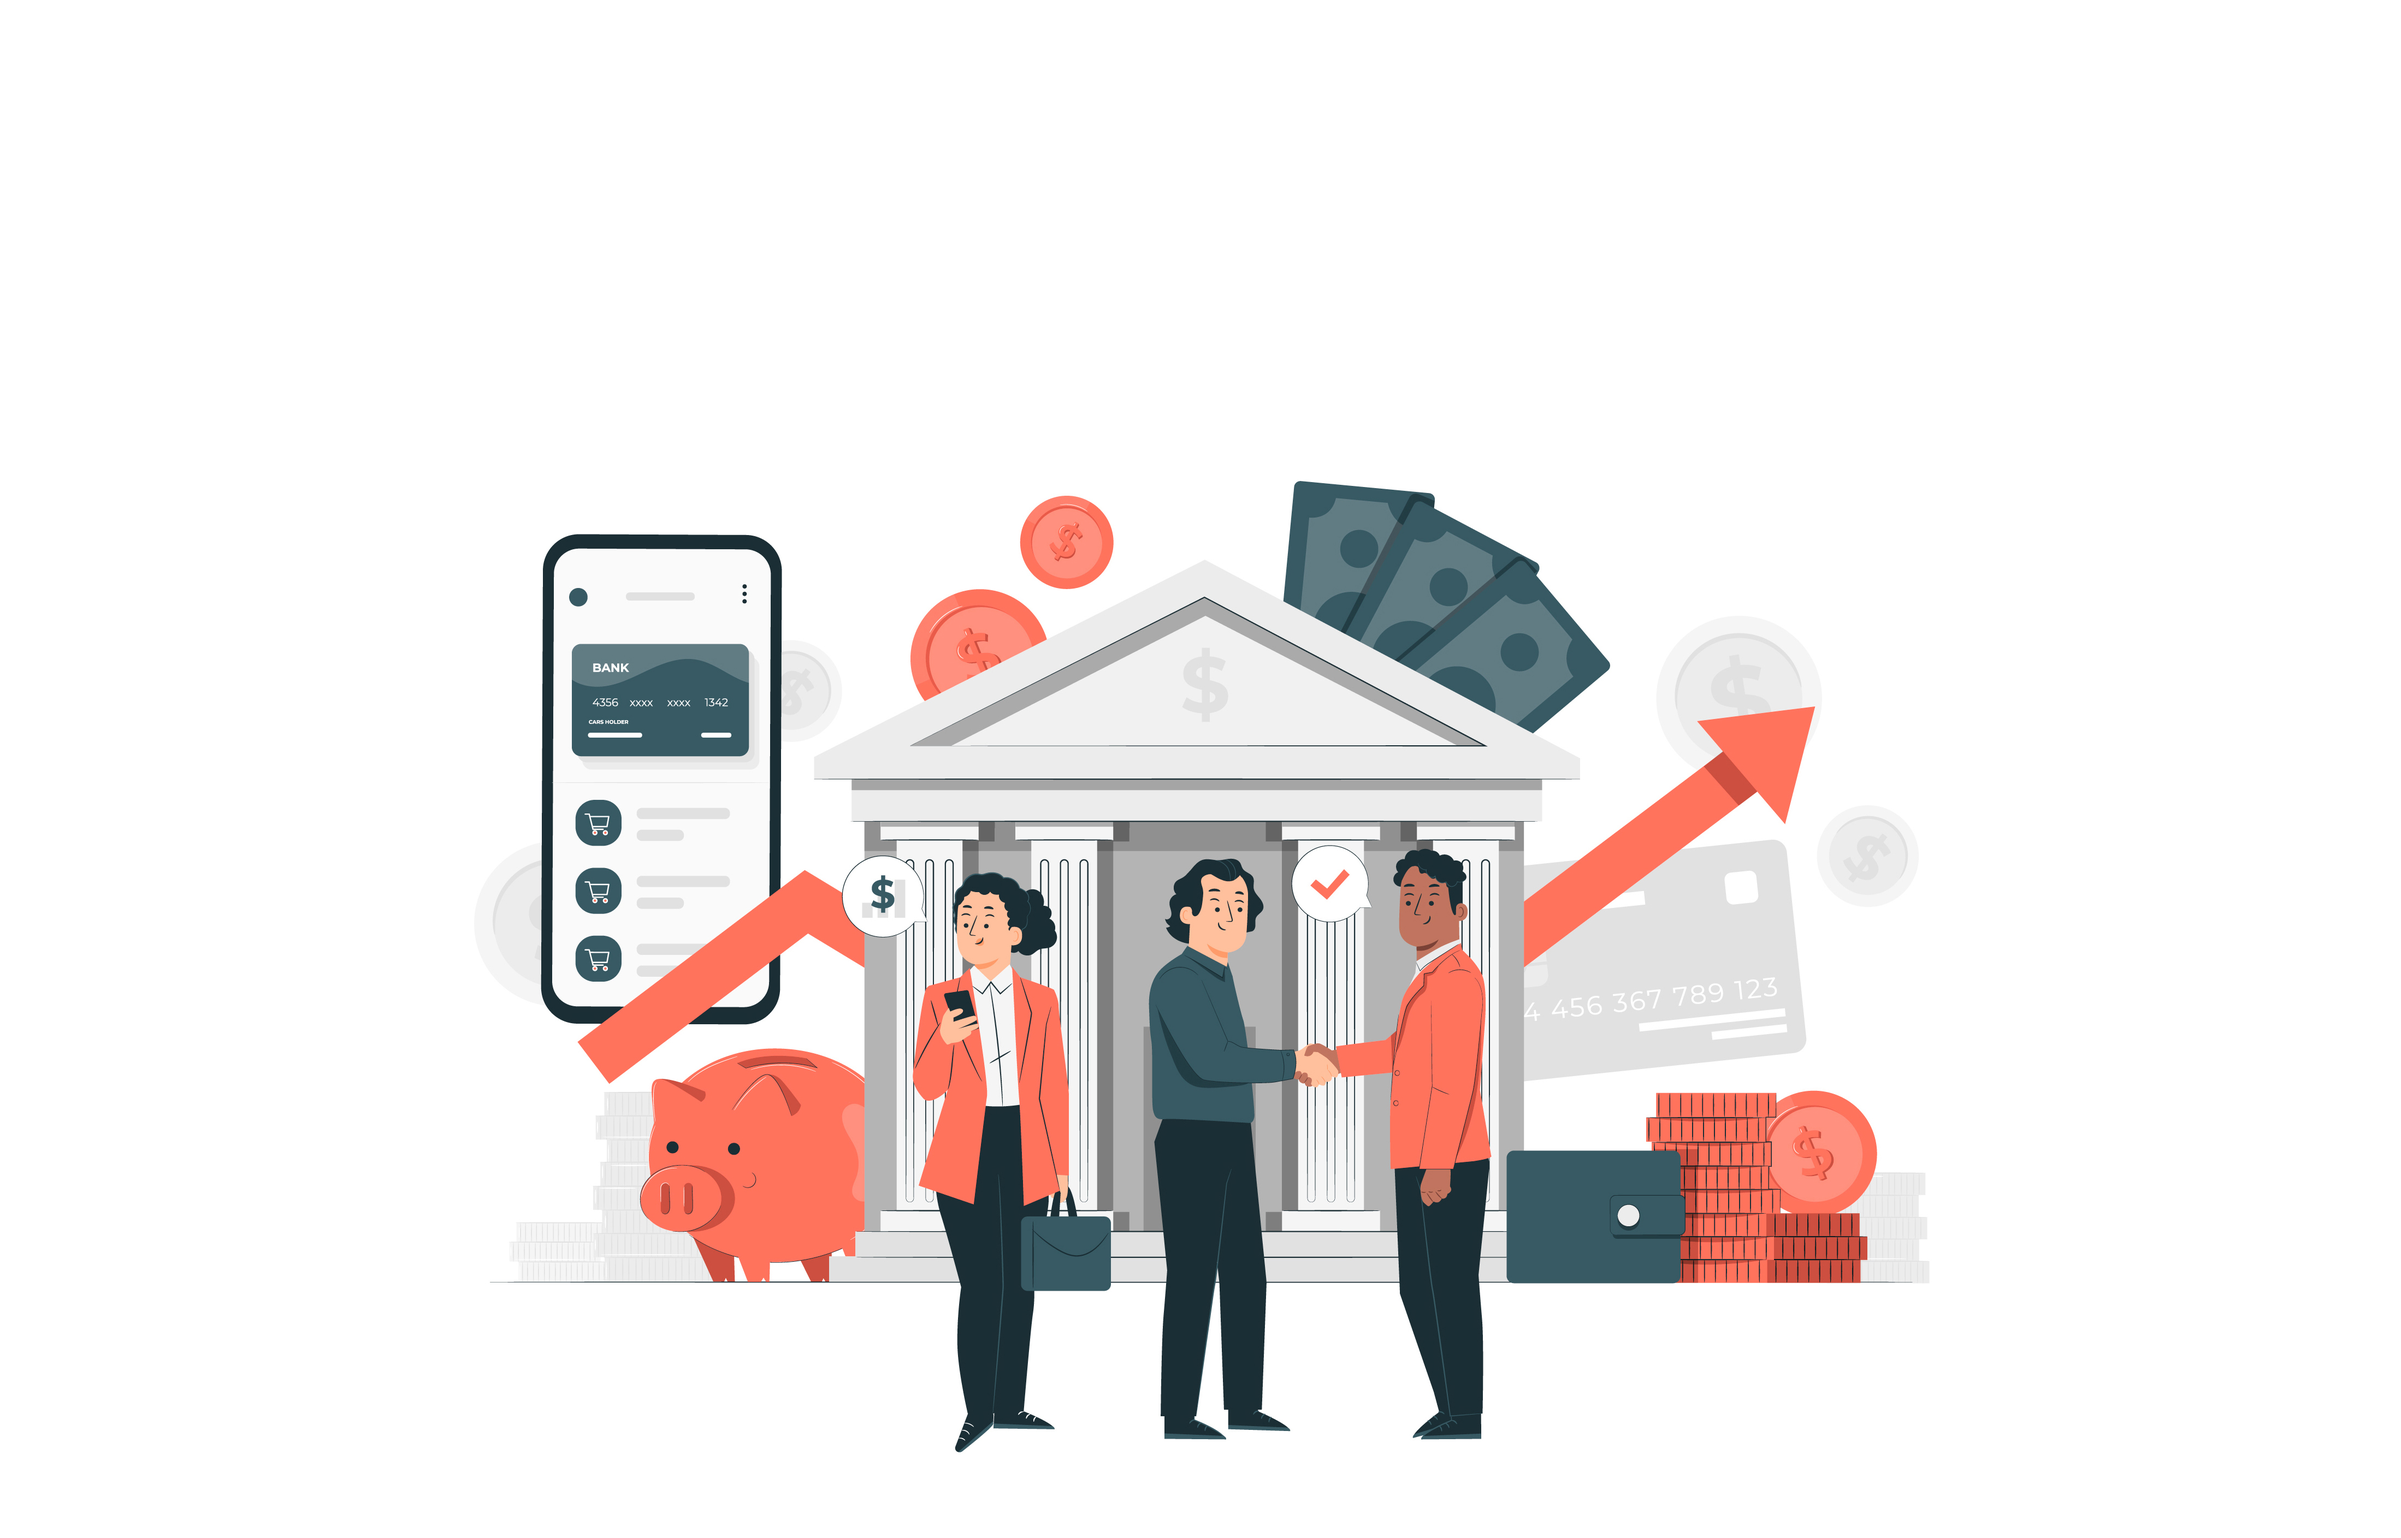
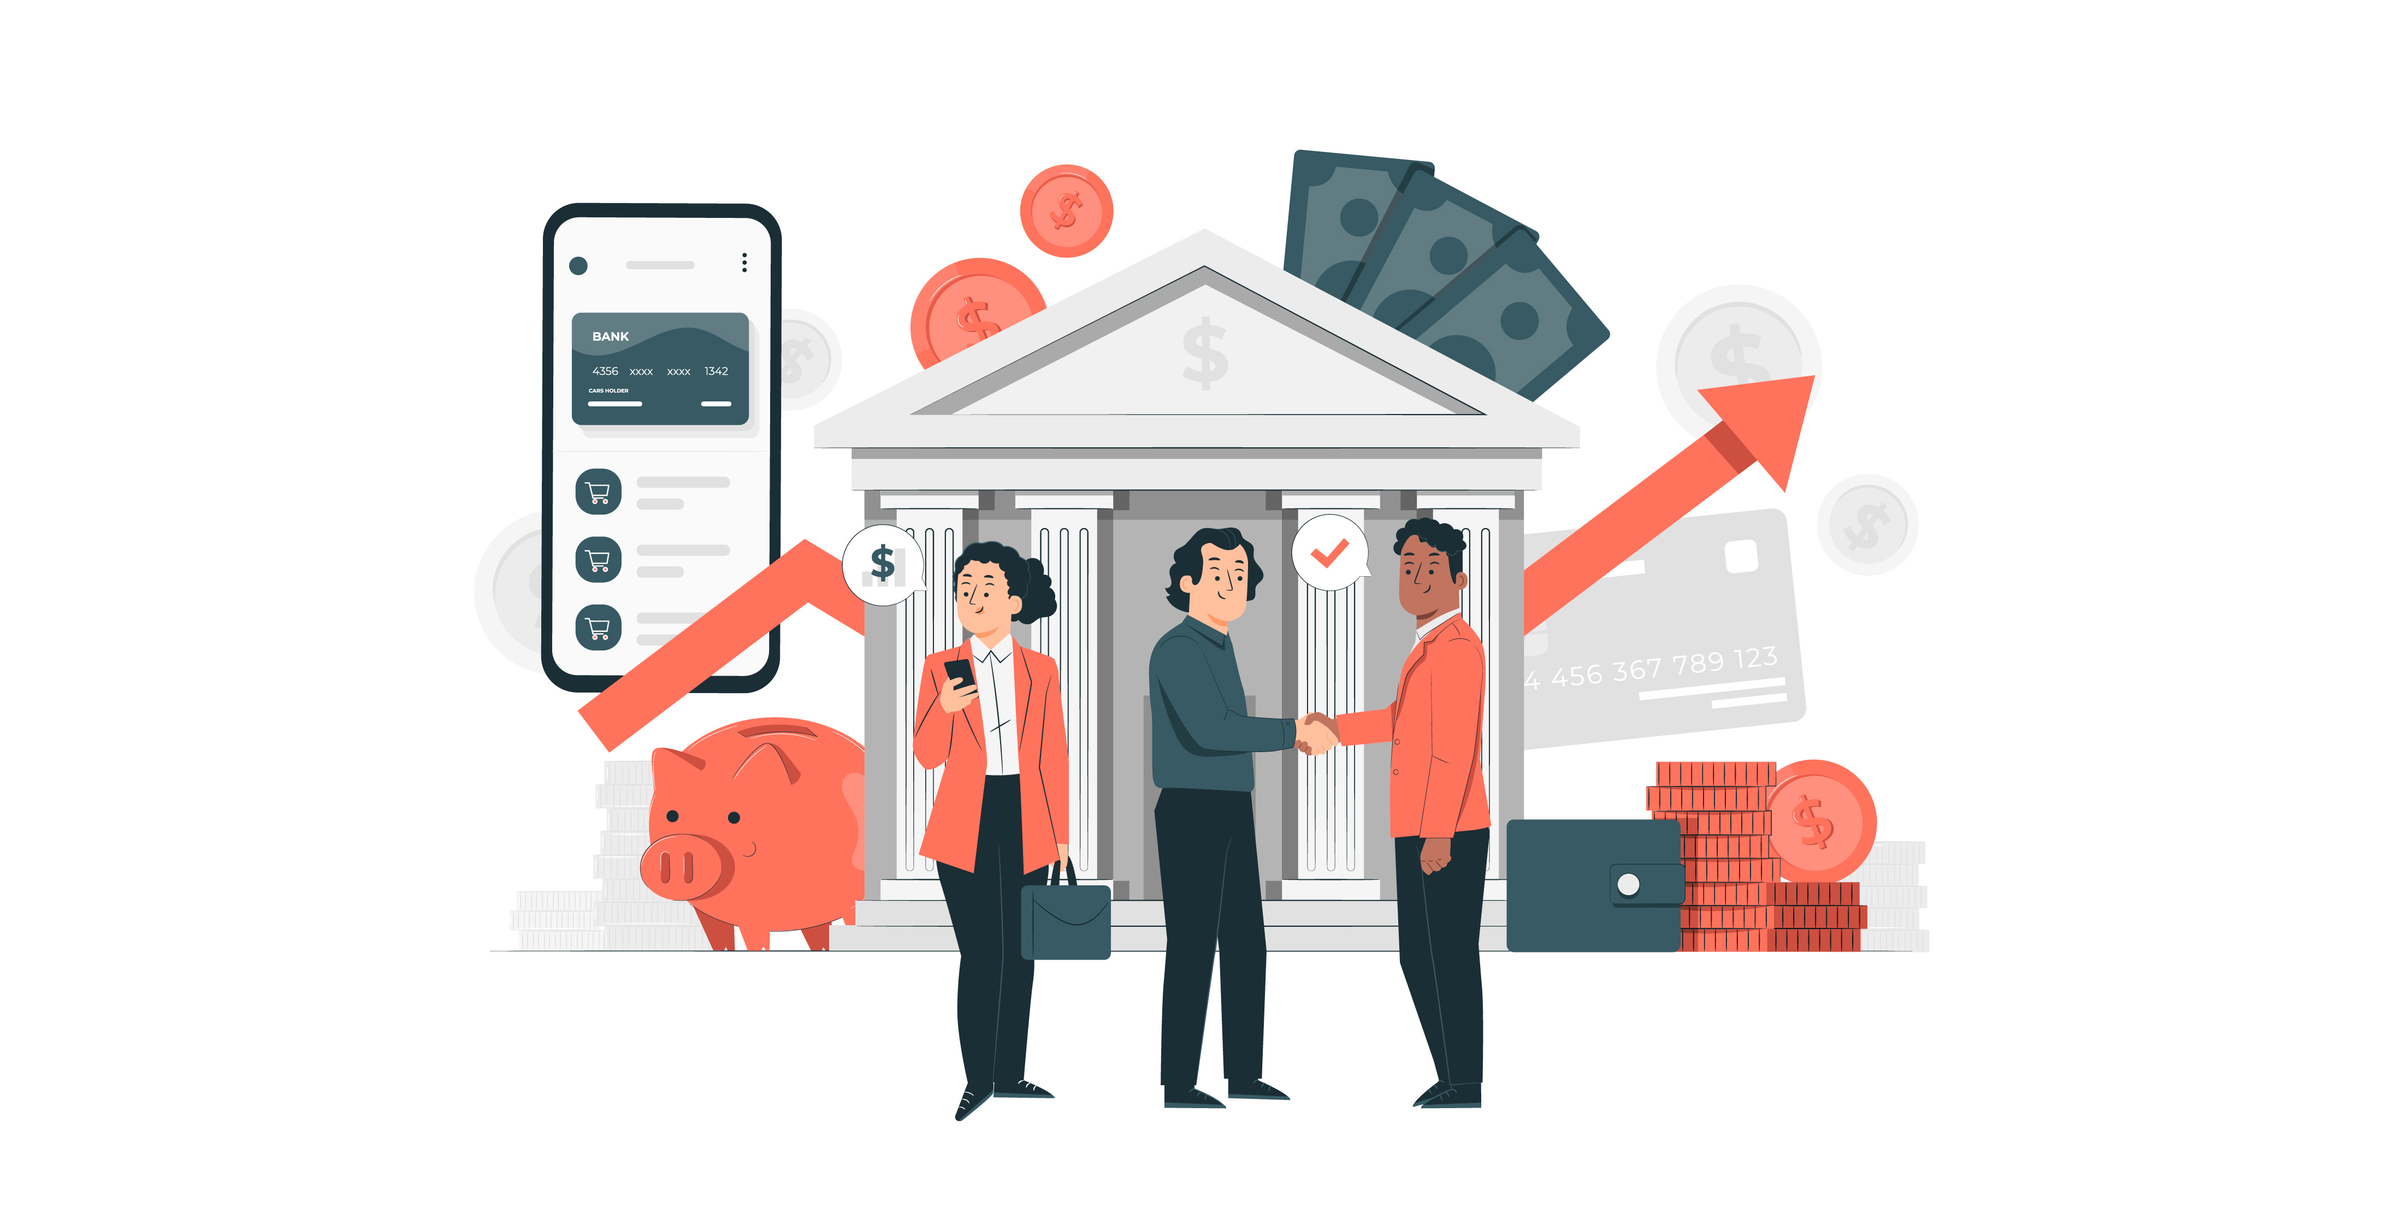
Fourth Commit : Path Setting And Redirection

Changed region(s): [[0.2182, 0.1249, 0.8103, 0.9367], [0.374, 0.8742, 0.4363, 0.9367], [0.7791, 0.4059, 0.8103, 0.4371]]

diff --git a/src/app/dashboard/dashboard.component.spec.ts b/src/app/dashboard/dashboard.component.spec.ts
@@ -1,0 +1,23 @@
+import { ComponentFixture, TestBed } from '@angular/core/testing';
+
+import { DashboardComponent } from './dashboard.component';
+
+describe('DashboardComponent', () => {
+  let component: DashboardComponent;
+  let fixture: ComponentFixture<DashboardComponent>;
+
+  beforeEach(async () => {
+    await TestBed.configureTestingModule({
+      declarations: [ DashboardComponent ]
+    })
+    .compileComponents();
+
+    fixture = TestBed.createComponent(DashboardComponent);
+    component = fixture.componentInstance;
+    fixture.detectChanges();
+  });
+
+  it('should create', () => {
+    expect(component).toBeTruthy();
+  });
+});

diff --git a/src/app/register/register.component.spec.ts b/src/app/register/register.component.spec.ts
@@ -1,0 +1,23 @@
+import { ComponentFixture, TestBed } from '@angular/core/testing';
+
+import { RegisterComponent } from './register.component';
+
+describe('RegisterComponent', () => {
+  let component: RegisterComponent;
+  let fixture: ComponentFixture<RegisterComponent>;
+
+  beforeEach(async () => {
+    await TestBed.configureTestingModule({
+      declarations: [ RegisterComponent ]
+    })
+    .compileComponents();
+
+    fixture = TestBed.createComponent(RegisterComponent);
+    component = fixture.componentInstance;
+    fixture.detectChanges();
+  });
+
+  it('should create', () => {
+    expect(component).toBeTruthy();
+  });
+});

diff --git a/src/app/login/login.component.ts b/src/app/login/login.component.ts
@@ -1,4 +1,5 @@
 import { Component } from '@angular/core';
+import { Router } from '@angular/router';
 
 @Component({
   selector: 'app-login',
@@ -22,7 +23,7 @@ export class LoginComponent {
     1006: { username: "Yrene", accno: 1006, password: "abc@123", balance: 0 },
   }
 
-  constructor() { }
+  constructor(private router:Router) { }
 
   ngOnInit(): void {
 
@@ -39,6 +40,8 @@ export class LoginComponent {
       if(pass==this.userDetails[accnum]["password"])
       {
         alert('Login Successfull')
+        //Redirection
+        this.router.navigateByUrl('dashboard')
       }
       else{
         alert('Incorrect Password')

diff --git a/src/app/app-routing.module.ts b/src/app/app-routing.module.ts
@@ -1,7 +1,14 @@
 import { NgModule } from '@angular/core';
 import { RouterModule, Routes } from '@angular/router';
+import { DashboardComponent } from './dashboard/dashboard.component';
+import { LoginComponent } from './login/login.component';
+import { RegisterComponent } from './register/register.component';
 
-const routes: Routes = [];
+const routes: Routes = [
+  {path:"",component:LoginComponent},
+  {path:"dashboard",component:DashboardComponent},
+  {path:"register",component:RegisterComponent}
+];
 
 @NgModule({
   imports: [RouterModule.forRoot(routes)],

diff --git a/src/app/app.module.ts b/src/app/app.module.ts
@@ -5,11 +5,15 @@ import { BrowserModule } from '@angular/platform-browser';
 import { AppRoutingModule } from './app-routing.module';
 import { AppComponent } from './app.component';
 import { LoginComponent } from './login/login.component';
+import { DashboardComponent } from './dashboard/dashboard.component';
+import { RegisterComponent } from './register/register.component';
 
 @NgModule({
   declarations: [
     AppComponent,
-    LoginComponent
+    LoginComponent,
+    DashboardComponent,
+    RegisterComponent
   ],
   imports: [
     BrowserModule,

diff --git a/src/app/login/login.component.html b/src/app/login/login.component.html
@@ -25,7 +25,10 @@
 
             <button (click)="login()" class="btn loginbtn ps-4 pe-4 mt-3 text-center ">Login</button><br>
             <!-- Event Binding  (click)="login()" -->
-            <label for="">Need an Account? <a href="#">Register </a></label>
+            <label for="">Need an Account? 
+                <a routerLink="register">Register </a>
+                <!-- <a href="Register">Register </a> -->
+            </label>
  
     </form>
 </div>

diff --git a/src/app/dashboard/dashboard.component.ts b/src/app/dashboard/dashboard.component.ts
@@ -1,0 +1,10 @@
+import { Component } from '@angular/core';
+
+@Component({
+  selector: 'app-dashboard',
+  templateUrl: './dashboard.component.html',
+  styleUrls: ['./dashboard.component.css']
+})
+export class DashboardComponent {
+
+}

diff --git a/src/styles.css b/src/styles.css
@@ -4,9 +4,10 @@ body{
     background-size: cover;
     background-repeat: no-repeat;
     background-clip: content-box;
-    background-position: 50% 50%;
     max-width: 100%;
-    height: 100%;
+    height: 100vh;
+
+ 
     
 }
 header{

diff --git a/src/app/register/register.component.ts b/src/app/register/register.component.ts
@@ -1,0 +1,10 @@
+import { Component } from '@angular/core';
+
+@Component({
+  selector: 'app-register',
+  templateUrl: './register.component.html',
+  styleUrls: ['./register.component.css']
+})
+export class RegisterComponent {
+
+}

diff --git a/src/app/login/login.component.css b/src/app/login/login.component.css
@@ -17,7 +17,6 @@
     color: rgb(18, 31, 35);
     width: 50%;
     border-radius: 30px;
-    margin-top: 7%;
     box-shadow: 0px 5px 10px 0px rgba(0, 0, 0, 0.5);
 }
 .loginfrm:hover{

diff --git a/src/app/app.component.html b/src/app/app.component.html
@@ -1,1 +1,2 @@
-<app-login></app-login>
+<!-- <app-login></app-login> -->
+<router-outlet></router-outlet>

diff --git a/src/app/dashboard/dashboard.component.html b/src/app/dashboard/dashboard.component.html
@@ -1,0 +1,1 @@
+<p>dashboard works!</p>
